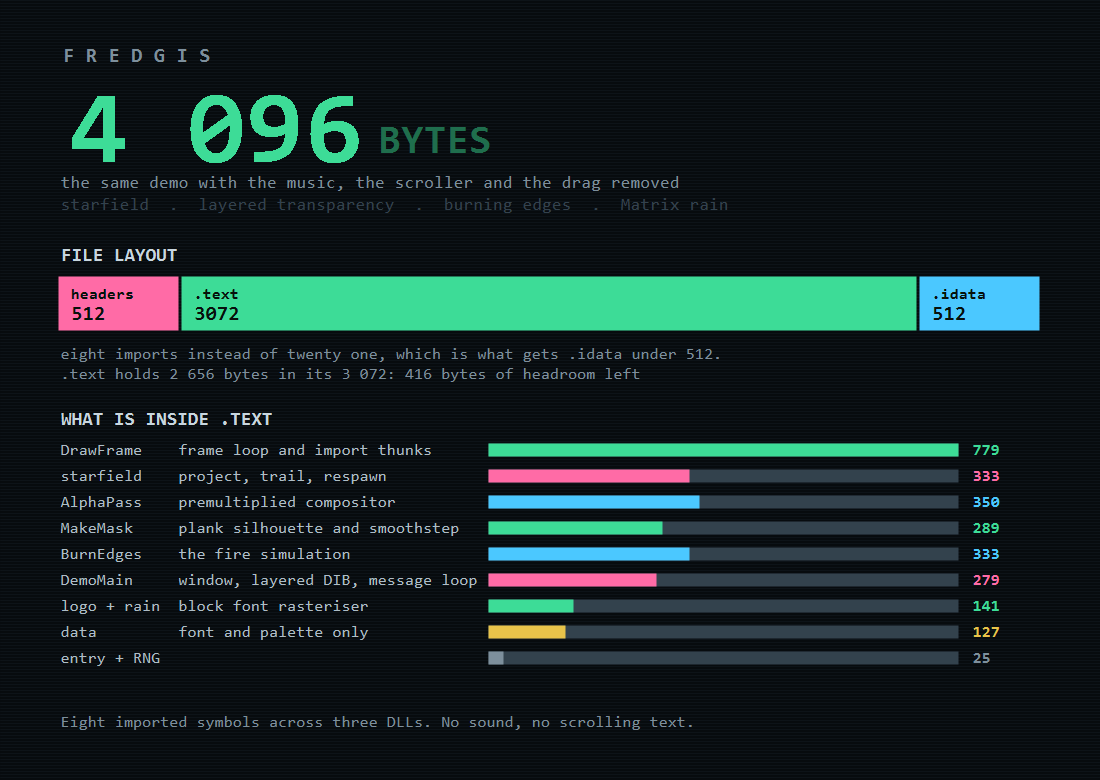
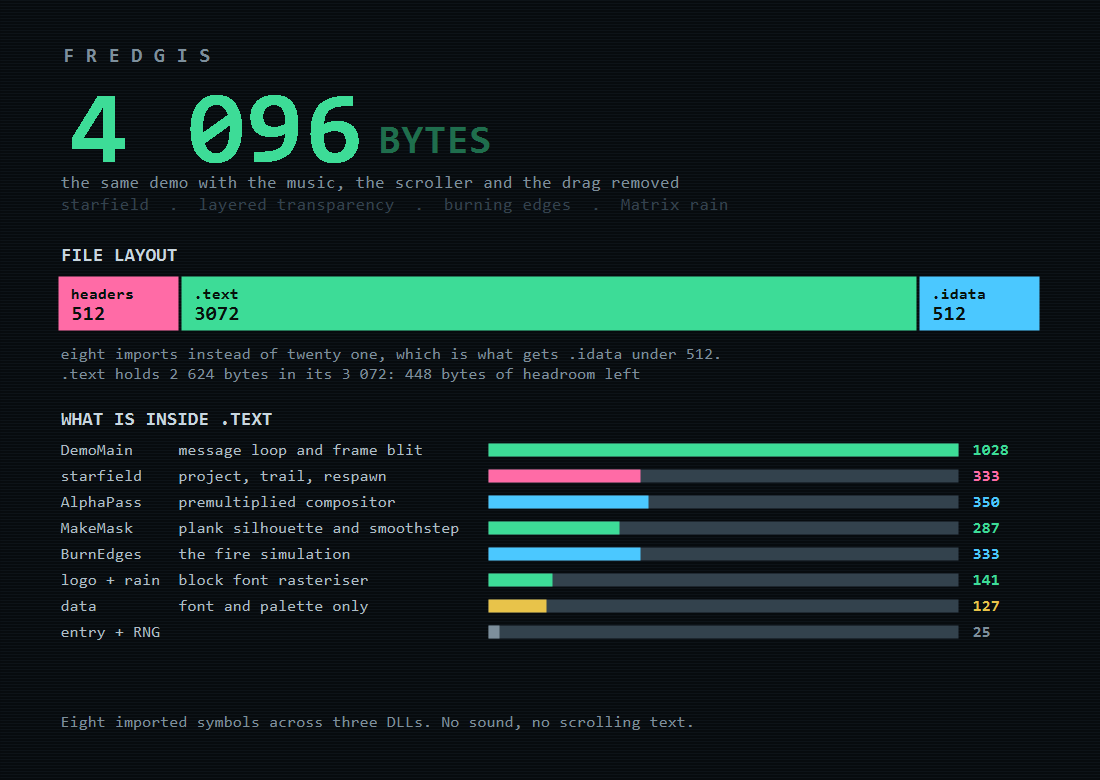
Inline DrawFrame into DemoMain and optimize MakeMask/BurnEdges/rain loops
- Inline DrawFrame into DemoMain message loop in fredgis4k.asm (-34B)
- Optimize MakeMask .tip loop address arithmetic with lea (-2B)
- Optimize BurnEdges vertical wobble calculation with lea (-1B)
- Hoist rain level_col lookup to outer depth loop
- Update make_budget.ps1, bytes.png, bytes4k.png and README.md

Copilot-Session: b00453fc-fde9-425e-ab58-828f13cedd49

diff --git a/README.md b/README.md
@@ -692,7 +692,7 @@ tricks do not get you there:
 | drop the high octave from the tune | −16 bytes, **file unchanged** |
 | apply every peephole idiom left | under 100 bytes, **file unchanged** |
 | `rep stosd` block fill and a SIMD premultiply | −32 in `.text`, **file unchanged** |
-| drop music + scroller + drag + window class | −928 in `.text`, −520 in `.idata`, **file 5 120 → 4 096** |
+| drop music + scroller + drag + window class | −960 in `.text`, −520 in `.idata`, **file 5 120 → 4 096** |
 
 The measured floor for `.idata` is the interesting part. Eleven imports — the
 smallest set that still creates a layered window and blits it — assembles to
